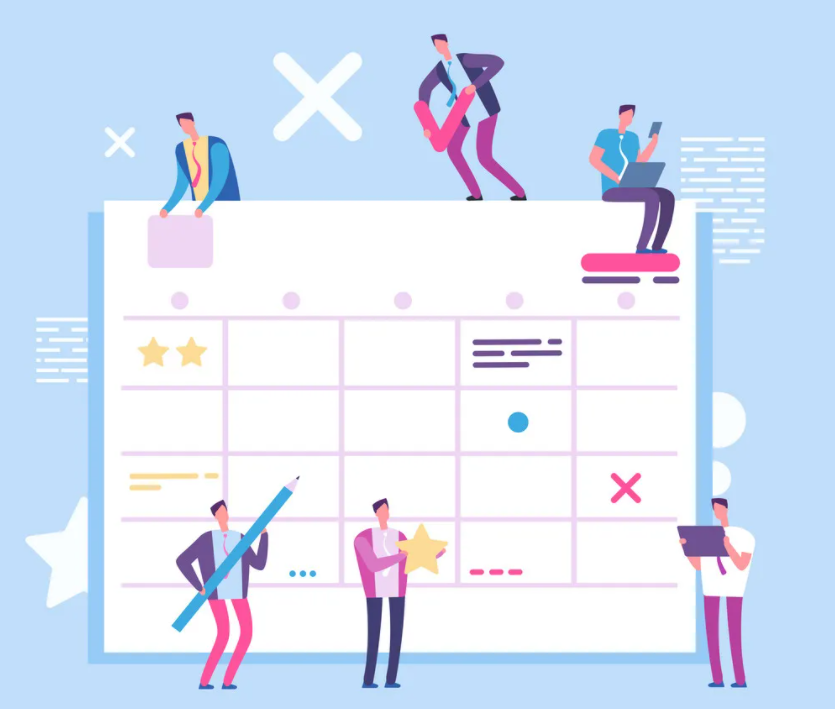
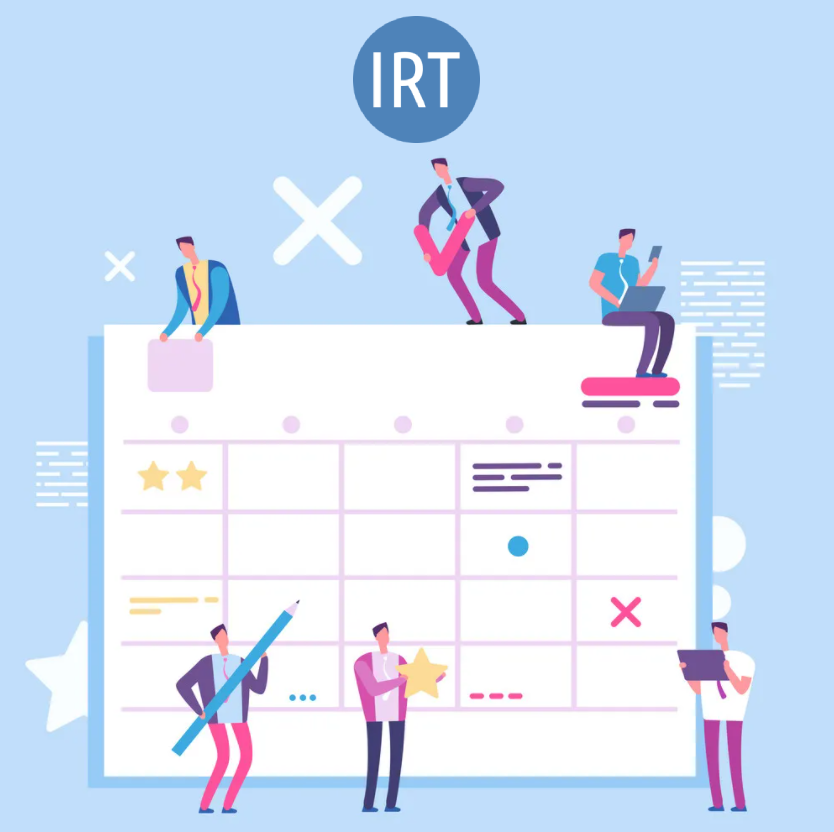
Working on Edit Modal

diff --git a/src/components/edit.user.component.js b/src/components/edit.user.component.js
@@ -128,6 +128,10 @@ const EditUserModal = (props) => {
         setSpecialty(e.target.value)
     }
 
+    const onChangeRole = (e) => {
+        setRole(e.target.value)
+    }
+
     const onChangeEmail = (e) => {
         setEmail(e.target.value)
     }
@@ -219,6 +223,20 @@ const EditUserModal = (props) => {
                         </div>
 
                         <div>
+                            <label htmlFor="role">Role</label>
+                            <select
+                                className="form-control"
+                                name="role"
+                                defaultValue={roleForm}
+                                value={roleForm}
+                                onChange={onChangeRole}>
+                                <option value="USER">User</option>
+                                <option value="DEVELOPER">Developer</option>
+                                <option value="ADMIN">Admin</option>
+                            </select>
+                        </div>
+
+                        <div>
                             <label htmlFor="specialty">Specialty</label>
                             <select
                                 className="form-control"
@@ -226,9 +244,9 @@ const EditUserModal = (props) => {
                                 defaultValue={specialtyForm}
                                 value={specialtyForm}
                                 onChange={onChangeSpecialty}>
-                                <option value="N/A">N/A</option>
-                                <option value="BACKEND">BACKEND</option>
-                                <option value="FRONTEND">FRONTEND</option>
+                                <option value="NONE"></option>
+                                <option value="BACKEND">BackEnd</option>
+                                <option value="FRONTEND">FrontEnd</option>
                             </select>
                             <br/>
                         </div>

diff --git a/src/redux/actions/user.js b/src/redux/actions/user.js
@@ -1,6 +1,4 @@
-import {authActions} from "./auth";
 import {routes} from "../../config/routes";
-import UserService from "../../services/user.service"
 import {HttpService} from "../../services/httpService";
 
 export const userActions = {
@@ -29,7 +27,7 @@ export const closeModal = () => (dispatch) => {
 export const getUserList = () => (dispatch) => {
     const url = routes.BASIC_URL + routes.BASIC_PATH + routes.USER_BY_ID
 
-    return HttpService.get(url,{})
+    return HttpService.get(url)
         .then(response => {
             return dispatch({
                 type: userActions.GET_USER_LIST,
@@ -50,16 +48,6 @@ export const getUserById = (userId) => (dispatch) => {
                 payload: response
             })
         })
-
-
-
-    // return UserService.getUserById(url, userId)
-    //     .then(response => {
-    //         return dispatch ({
-    //             type: userActions.GET_USER_BY_ID,
-    //             payload: response
-    //         })
-    //     })
 }
 
 export const updateUserById = (userData, userId) => (dispatch) => {
@@ -67,7 +55,7 @@ export const updateUserById = (userData, userId) => (dispatch) => {
 
     return HttpService.put(url, userData)
         .then(response => {
-            if (response === 500) {
+            if (response === 403) {
                 return dispatch({
                     type: userActions.RECEIVE_DUPLICATE_ENTRY
                 })
@@ -79,5 +67,4 @@ export const updateUserById = (userData, userId) => (dispatch) => {
                 })
             }
         })
-
 }

diff --git a/src/components/admin/board-admin-users.component.jsx b/src/components/admin/board-admin-users.component.jsx
@@ -142,32 +142,9 @@ const AdminUserList = () => {
     }, [])
 
     // useEffect(() => {
-    //     UserService.getUsers().then(
-    //         response => {
-    //                 setUsers(userList)
-    //         },
-    //         error => {
-    //                 setError(
-    //                     (error.response &&
-    //                         error.response.data &&
-    //                         error.response.data.message) ||
-    //                         error.message ||
-    //                         error.toString())
-    //
-    //             if (error.response && error.response.status === 401) {
-    //                 EventBus.dispatch("logout");
-    //             }
-    //
-    //         }
-    //     );
-    //     }, [])
-
-    useEffect(() => {
-        dispatch(closeModal)
-    }, [])
-    // useEffect(() => {
     //     dispatch(closeModal)
-    // }, [handleCloseViewUserModal])
+    // }, [])
+
 
     return (
         <div>
@@ -227,7 +204,7 @@ const AdminUserList = () => {
                         Create User
                     </Button>
                 </div>
-                <DataTable paginationPerPage={5} paginationRowsPerPageOptions={[5, 10, 15]} title={'Users'}
+                <DataTable paginationPerPage={10} paginationRowsPerPageOptions={[10, 25, 50]} title={'Users'}
                            columns={columns} data={users} pagination={true}/>
             </header>
         </div>

diff --git a/src/components/home/home.component.js b/src/components/home/home.component.js
@@ -15,11 +15,11 @@ export default class Home extends Component {
 
     render() {
         return (
-            <div className="centerimage">
+            <div className="centerimage" >
                 <Image
                     img src={homephoto} alt="homephoto" class="centerimage"
                     width={600}
-                    height={450}
+                    height={650}
                 />
             </div>
         );

diff --git a/src/services/httpService.js b/src/services/httpService.js
@@ -14,15 +14,6 @@ export class HttpService {
         }
     }
 
-    static async getAll(url) {
-        try {
-            return await request(url, "GET");
-        } catch (e) {
-            console.log("Error on GET request: ", e);
-            throw e;
-        }
-    }
-
     static async post(url, requestParams) {
         try {
             return await request(url, "POST", requestParams);

diff --git a/src/components/header/header.component.jsx b/src/components/header/header.component.jsx
@@ -38,7 +38,7 @@ const Header = () => {
       <div className="header">
         <nav className="navbar navbar-expand navbar-dark">
           <Link to={"/"} className="navbar-brand">
-            irt-react-client
+            Issue Reporting Tool
           </Link>
           <div className="navbar-nav mr-auto">
             {currentUserLoaded && currentUserData.role === "ADMIN" ? (

diff --git a/public/index.html b/public/index.html
@@ -24,7 +24,7 @@
       work correctly both with client-side routing and a non-root public URL.
       Learn how to configure a non-root public URL by running `npm run build`.
     -->
-    <title>irt</title>
+    <title>IRT</title>
   </head>
   <body>
     <noscript>You need to enable JavaScript to run this app.</noscript>

diff --git a/src/components/home/css/home.component.css b/src/components/home/css/home.component.css
@@ -2,6 +2,7 @@
     display: flex;
     justify-content: center;
     align-items: center;
-    margin-top: 50px;
-    margin-bottom: 10px;
+    margin-top: 10px;
+    margin-bottom: -40px;
+    background-color: #c1defb;
 }
